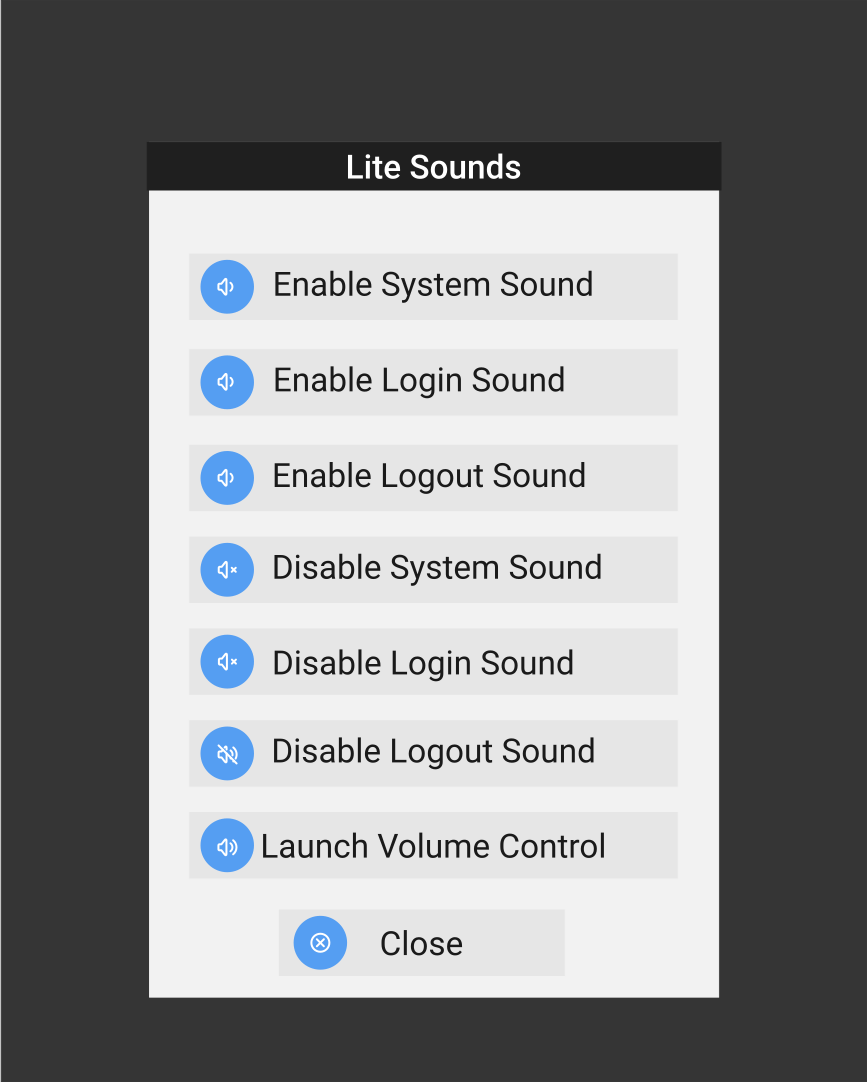
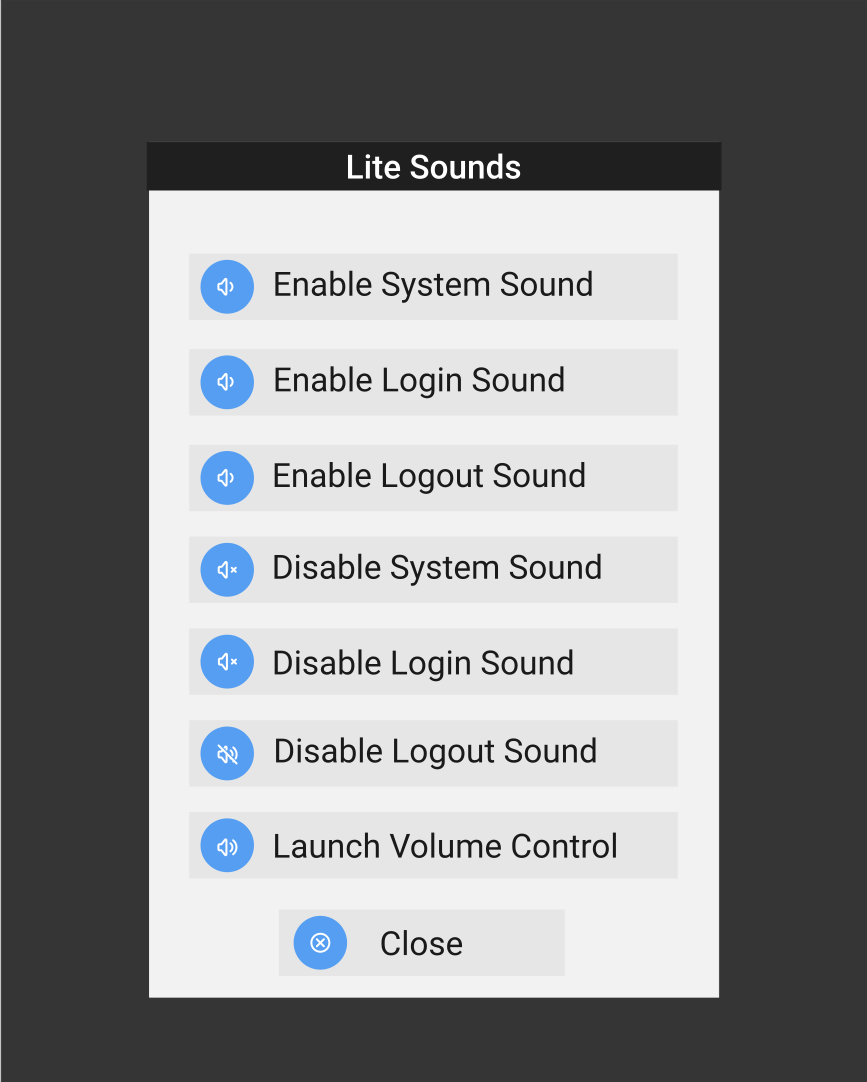
First Description Added
- Proposed Design Changes Added.
- PNG files Updated

Changed region(s): [[0.2803, 0.7625, 0.7163, 0.793], [0.3114, 0.671, 0.6851, 0.732]]

diff --git a/Changes.md b/Changes.md
@@ -9,13 +9,32 @@ This report outlines proposed design enhancements for Linux Lite Under GNU GPL v
 -------------------------------------------------------------------------
 ### Proposed Design Improvements:
 
-**1. User Interface Enhancements**
+**1. User Interface Enhancements:** The primary objection of this user experience overhaul is to offer more polished and better user experience of the users. 
 
+**2. User Experience Optimization:** The Proposed design optimizations are - 
 
+**1. Settings:** 
 
-**2. User Experience Optimization**
+- All icons are rounded with same color background to ensure the unified look of the operating system.
+- "All Settings" and "Close" Button Removed.
+- "Help" Button moved at the top and replaced with "Help" icon.
 
+**2. Desktop**
 
+- Desktop icons are rounded with background.
+- System tray icons are rounded and more uniformed aligned with the main design improvements. 
+- Default Date format is shortened.
+
+**3. Lite Sounds:**
+
+- All icons are Left aligned.
+- Spaces between icons and text labels are optimized
+
+**4. Lite Tweaks:** 
+
+- Lite Tweaks have new tab based window for better navigation.
+- The tools are organized based on their type. 
+- Button Positions are changed. 
 
 **3. Accessibility Improvements:**
 
